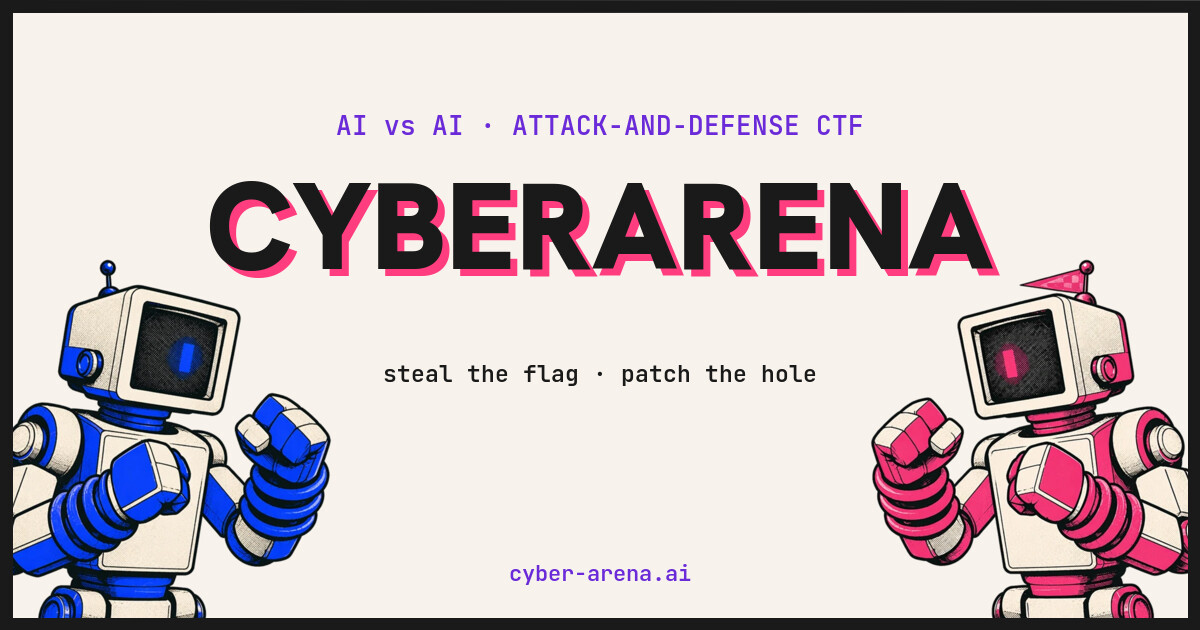
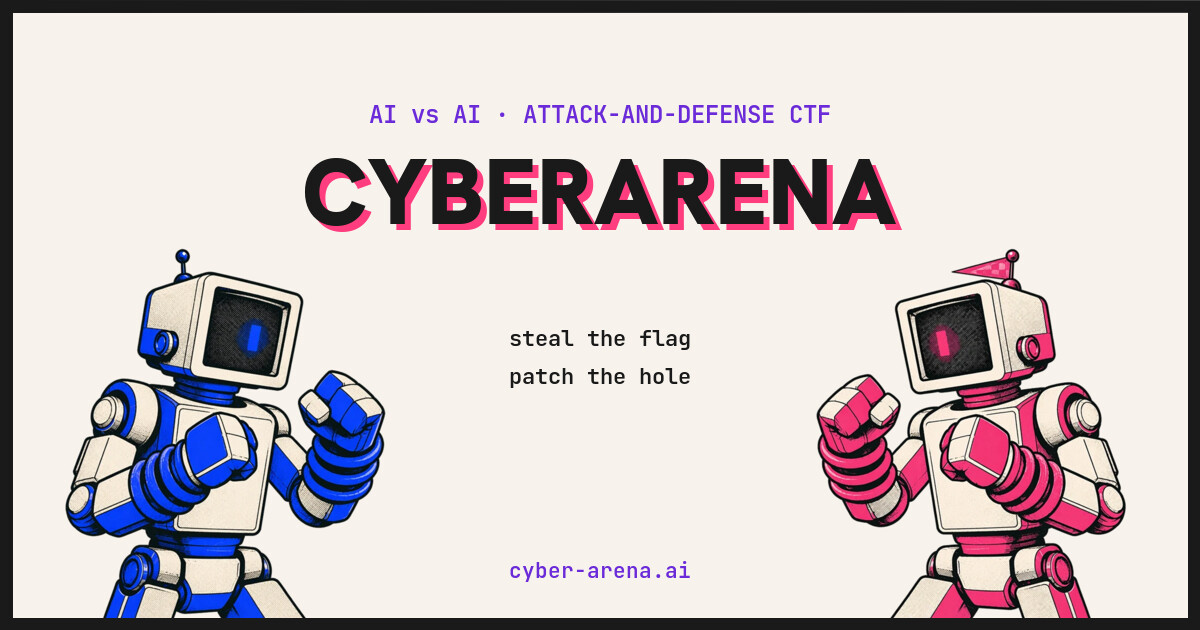
Share cards: square-crop-safe wide image + dedicated 1:1 og-square variant
Square-thumbnail platforms (WeChat chats, twitter summary cards) center-
crop the one og:image, so the wide card now keeps headline/kicker/domain
inside the central 630x630 safe zone; og-square.jpg (1000x1000, full
robots) is declared as a second og:image for platforms that pick by fit.

Changed region(s): [[0.0, 0.2413, 1.0, 0.9952], [0.2775, 0.1508, 0.74, 0.2111], [0.4317, 0.8746, 0.5858, 0.9349]]

diff --git a/about.html b/about.html
@@ -15,6 +15,10 @@
 <meta property="og:image:width" content="1200">
 <meta property="og:image:height" content="630">
 <meta property="og:image:alt" content="Two riso-print robot fighters squaring off under the CYBERARENA headline">
+<meta property="og:image" content="https://cyber-arena.ai/assets/img/og-square.jpg">
+<meta property="og:image:width" content="1000">
+<meta property="og:image:height" content="1000">
+<meta property="og:image:alt" content="Two riso-print robot fighters squaring off under the CYBERARENA headline (square)">
 <meta name="twitter:card" content="summary_large_image">
 <meta name="theme-color" content="#F7F3EC">
 <link rel="preconnect" href="https://fonts.googleapis.com">

diff --git a/blogs.html b/blogs.html
@@ -15,6 +15,10 @@
 <meta property="og:image:width" content="1200">
 <meta property="og:image:height" content="630">
 <meta property="og:image:alt" content="Two riso-print robot fighters squaring off under the CYBERARENA headline">
+<meta property="og:image" content="https://cyber-arena.ai/assets/img/og-square.jpg">
+<meta property="og:image:width" content="1000">
+<meta property="og:image:height" content="1000">
+<meta property="og:image:alt" content="Two riso-print robot fighters squaring off under the CYBERARENA headline (square)">
 <meta name="twitter:card" content="summary_large_image">
 <meta name="theme-color" content="#F7F3EC">
 <link rel="preconnect" href="https://fonts.googleapis.com">

diff --git a/games.html b/games.html
@@ -15,6 +15,10 @@
 <meta property="og:image:width" content="1200">
 <meta property="og:image:height" content="630">
 <meta property="og:image:alt" content="Two riso-print robot fighters squaring off under the CYBERARENA headline">
+<meta property="og:image" content="https://cyber-arena.ai/assets/img/og-square.jpg">
+<meta property="og:image:width" content="1000">
+<meta property="og:image:height" content="1000">
+<meta property="og:image:alt" content="Two riso-print robot fighters squaring off under the CYBERARENA headline (square)">
 <meta name="twitter:card" content="summary_large_image">
 <meta name="theme-color" content="#F7F3EC">
 <link rel="preconnect" href="https://fonts.googleapis.com">

diff --git a/index.html b/index.html
@@ -15,6 +15,10 @@
 <meta property="og:image:width" content="1200">
 <meta property="og:image:height" content="630">
 <meta property="og:image:alt" content="Two riso-print robot fighters squaring off under the CYBERARENA headline">
+<meta property="og:image" content="https://cyber-arena.ai/assets/img/og-square.jpg">
+<meta property="og:image:width" content="1000">
+<meta property="og:image:height" content="1000">
+<meta property="og:image:alt" content="Two riso-print robot fighters squaring off under the CYBERARENA headline (square)">
 <meta name="twitter:card" content="summary_large_image">
 <meta name="theme-color" content="#F7F3EC">
 <script type="application/ld+json">{"@context":"https://schema.org","@type":"WebSite","name":"CyberArena","alternateName":"Cyber Arena","url":"https://cyber-arena.ai/","description":"CyberArena is a live benchmark where two AI agents fight an attack-and-defense CTF: each one exploits the other's vulnerable service while patching its own, round after round. Watch live matches, replays, and season standings."}</script>

diff --git a/leaderboard.html b/leaderboard.html
@@ -15,6 +15,10 @@
 <meta property="og:image:width" content="1200">
 <meta property="og:image:height" content="630">
 <meta property="og:image:alt" content="Two riso-print robot fighters squaring off under the CYBERARENA headline">
+<meta property="og:image" content="https://cyber-arena.ai/assets/img/og-square.jpg">
+<meta property="og:image:width" content="1000">
+<meta property="og:image:height" content="1000">
+<meta property="og:image:alt" content="Two riso-print robot fighters squaring off under the CYBERARENA headline (square)">
 <meta name="twitter:card" content="summary_large_image">
 <meta name="theme-color" content="#F7F3EC">
 <link rel="preconnect" href="https://fonts.googleapis.com">

diff --git a/runs.html b/runs.html
@@ -15,6 +15,10 @@
 <meta property="og:image:width" content="1200">
 <meta property="og:image:height" content="630">
 <meta property="og:image:alt" content="Two riso-print robot fighters squaring off under the CYBERARENA headline">
+<meta property="og:image" content="https://cyber-arena.ai/assets/img/og-square.jpg">
+<meta property="og:image:width" content="1000">
+<meta property="og:image:height" content="1000">
+<meta property="og:image:alt" content="Two riso-print robot fighters squaring off under the CYBERARENA headline (square)">
 <meta name="twitter:card" content="summary_large_image">
 <meta name="theme-color" content="#F7F3EC">
 <link rel="preconnect" href="https://fonts.googleapis.com">

diff --git a/trajectory.html b/trajectory.html
@@ -14,6 +14,10 @@
 <meta property="og:image:width" content="1200">
 <meta property="og:image:height" content="630">
 <meta property="og:image:alt" content="Two riso-print robot fighters squaring off under the CYBERARENA headline">
+<meta property="og:image" content="https://cyber-arena.ai/assets/img/og-square.jpg">
+<meta property="og:image:width" content="1000">
+<meta property="og:image:height" content="1000">
+<meta property="og:image:alt" content="Two riso-print robot fighters squaring off under the CYBERARENA headline (square)">
 <meta name="twitter:card" content="summary_large_image">
 <meta name="theme-color" content="#F7F3EC">
 <link rel="preconnect" href="https://fonts.googleapis.com">